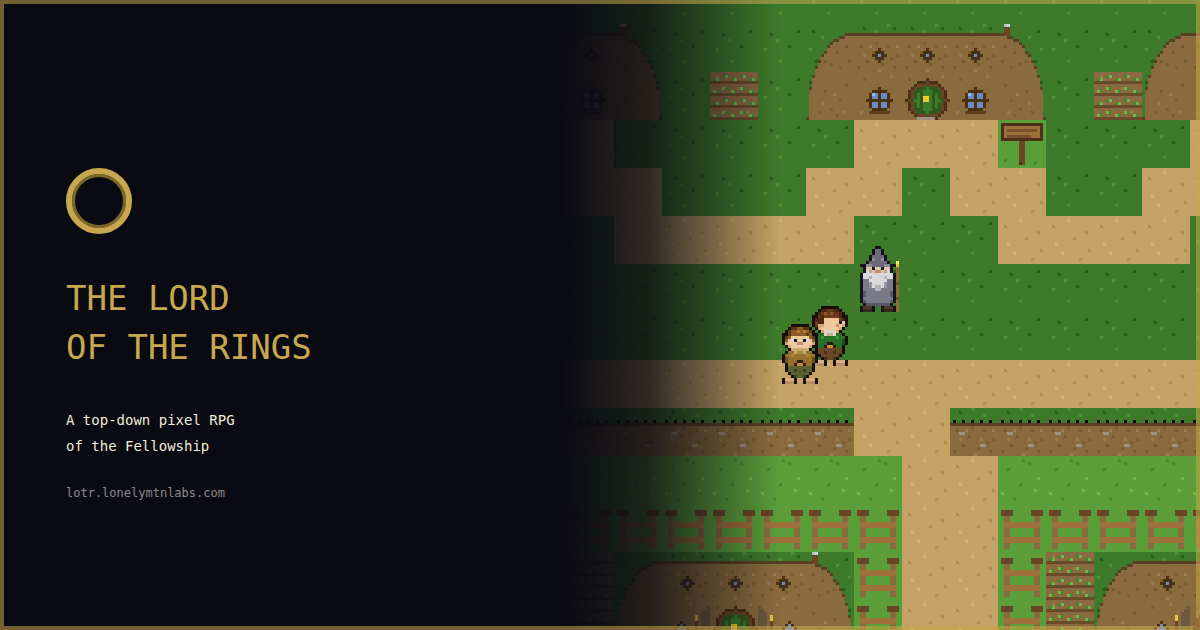
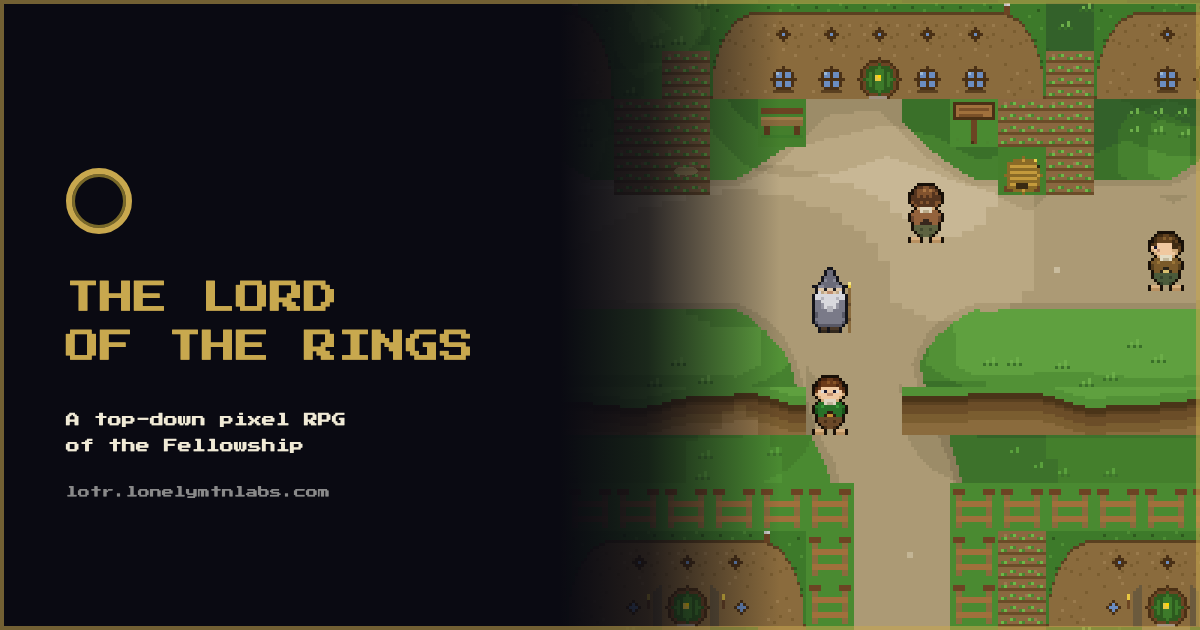
docs: refresh Hobbiton social preview

diff --git a/README.md b/README.md
@@ -18,17 +18,13 @@ Play as Frodo Baggins from the round green door of Bag End to the breaking of th
 | :---------------------------------------------------------------: | :----------------------------------------------------------------------------: |
 |                    Inside Bag End, by the fire                    |                   Gildor's company feasting in the Woody End                   |
 
-| ![Farmer Maggot's waggon on the causeway at night](assets/screenshots/waggon-ride.png) | ![Bamfurlong farm in the Marish](assets/screenshots/marish.png) |
-| :------------------------------------------------------------------------------------: | :-------------------------------------------------------------: |
-|                    Maggot drives them to the Ferry through the fog                     |         Farmer Maggot's Bamfurlong, down in the Marish          |
+| ![Bamfurlong farm in the Marish](assets/screenshots/marish.png) | ![Farmer Maggot's waggon on the causeway at night](assets/screenshots/waggon-ride.png) |
+| :-------------------------------------------------------------: | :------------------------------------------------------------------------------------: |
+|         Farmer Maggot's Bamfurlong, down in the Marish          |                    Maggot drives them to the Ferry through the fog                     |
 
-| ![Crickhollow's cottage, lawn and kitchen garden](assets/screenshots/crickhollow.png) | ![All five hobbits sharing supper](assets/screenshots/crickhollow-supper.png) |
-| :-----------------------------------------------------------------------------------: | :---------------------------------------------------------------------------: |
-|                               The garden at Crickhollow                               |                        Supper and the friends' secret                         |
-
-|     ![Winding paths beneath the Old Forest canopy](assets/screenshots/oldforest.png)     |            ![Captivity at Old Man Willow](assets/screenshots/willow.png)             |
-| :--------------------------------------------------------------------------------------: | :----------------------------------------------------------------------------------: |
-|                                      The Old Forest                                      |                                    Old Man Willow                                    |
+| ![Crickhollow's cottage, lawn and kitchen garden](assets/screenshots/crickhollow.png) | ![Captivity at Old Man Willow](assets/screenshots/willow.png) |
+| :-----------------------------------------------------------------------------------: | :------------------------------------------------------------: |
+|                               The garden at Crickhollow                               |                            Old Man Willow                            |
 | ![The four hobbits in Tom and Goldberry’s house](assets/screenshots/tomhouse-supper.png) | ![Chalk paths and standing stones in the Barrow-downs](assets/screenshots/downs.png) |
 |                                Tom and Goldberry’s house                                 |                                   The Barrow-downs                                   |
 
